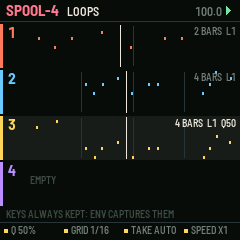
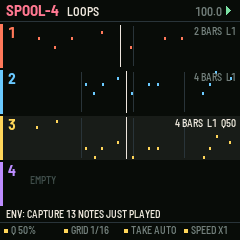
UI pass: held-button hints and clearer screens

Changed region(s): [[0.0, 0.875, 0.7292, 0.9333]]

diff --git a/app/ui.c b/app/ui.c
@@ -52,6 +52,11 @@ static const char *const CARD_TEXT[NB] = {
 #endif
 };
 
+static const char *const HINTS[NB] = {
+    [B_SEL] = "SEQ REDO  EDIT CLEAR  LFO HALVE  TAP: SOUND", [B_FX] = "ERASING AS IT PASSES",
+    [B_ARP] = "HOLD A KEY: IT REPEATS (K2 GRID)",
+};
+
 static void dirty(void) { U.dirty = 1; }
 static loop_t *lp_sel(void) { return &P.loop[L.sel % NLOOP]; }
 static void settings_save(void) { plat_store_save(OBJ_SETTINGS, &set, sizeof set); }
@@ -406,7 +411,14 @@ static void draw(void)
             cv_rect(90, 70, 60, 50, K_PANEL);
             text_c(120, 80, &FONT_L, t, K_REC);
         }
-        cv_text(6, 186, &FONT_T, L.erase ? "ERASING AS IT PASSES" : "KEYS ALWAYS KEPT: ENV CAPTURES THEM", L.erase ? K_REC : K_FAINT);
+        {
+            uint32_t n = capture_ready();
+            char t[40] = "ENV: CAPTURE ";
+            i_cat(t, (int32_t)n);
+            s_cat(t, n == 1u ? " NOTE JUST PLAYED" : " NOTES JUST PLAYED");
+            cv_text(6, 186, &FONT_T, L.erase ? "ERASING AS IT PASSES" : n ? t : "KEYS ALWAYS KEPT: ENV CAPTURES THEM",
+                    L.erase ? K_REC : n ? K_FG : K_FAINT);
+        }
     }
     cv_blit(0, 22);
     if (U.page == PG_LOOPS) {
@@ -426,6 +438,7 @@ static void draw(void)
     } else {
         kit_knobs("VALUE", "", "", "", ACCENT);
     }
+    kit_hint(HINTS, ACCENT);
 }
 
 static void lights(void)

diff --git a/app/core/kit.c b/app/core/kit.c
@@ -262,6 +262,30 @@ static void kit_knobs(const char *a, const char *b, const char *c, const char *d
     cv_blit(0, 222);
 }
 
+/* while one button is held (a fifth of a second, before its card), the knob band says what it does now: the map
+ * of a held layer on the screen, so no combination has to be remembered. 1 when drawn (the app skips its knobs) */
+static int kit_hint(const char *const *hints, uint16_t accent)
+{
+    uint32_t i, now = plat_ms();
+    for (i = 0; i < NB; i++)
+        if (hints[i] && HELD(i) && now - K.bt0[i] >= 200u && K.card == NB && (K.btn & ~(1u << i)) == 0u) {
+            cv_begin(240, 18, accent);
+            cv_text(4, 2, &FONT_T, BTN_NM[i], K_BG);
+            cv_text(8 + text_w(&FONT_T, BTN_NM[i]), 2, &FONT_T, hints[i], K_BG);
+            cv_blit(0, 222);
+            return 1;
+        }
+    return 0;
+}
+static int kit_hint_due(const char *const *hints)      /* a frame should redraw for the hint to appear */
+{
+    uint32_t i, now = plat_ms();
+    for (i = 0; i < NB; i++)
+        if (hints[i] && HELD(i) && now - K.bt0[i] >= 200u && now - K.bt0[i] < 260u)
+            return 1;
+    return 0;
+}
+
 /* a value 0..max as a bar w wide (meters, levels) */
 static void bar(int32_t x, int32_t y, int32_t w, int32_t h, int32_t v, int32_t max, uint16_t c)
 {

diff --git a/app/seq.c b/app/seq.c
@@ -391,6 +391,19 @@ static int loop_halve(void)                             /* the first half kept *
     return 1;
 }
 
+static uint32_t capture_ready(void)                    /* the notes CAPTURE would take now (the screen) */
+{
+    uint32_t now = (uint32_t)((float)T.now / samples_per_tick()), first = now, i, n = 0;
+    for (i = 0; i < 128u && i < L.cap_w; i++) {
+        uint32_t k = (L.cap_w - 1u - i) % 128u;
+        if (now - L.cap[k].t > 8u * BAR || first - L.cap[k].t > (i ? BAR : 2u * BAR))
+            break;
+        first = L.cap[k].t;
+        n++;
+    }
+    return n;
+}
+
 /* CAPTURE: the last bars played on the keys into the loop as a new layer (empty: as many bars as the playing took,
  * 1, 2, 4 or 8) */
 static int capture(void)

diff --git a/app/app.c b/app/app.c
@@ -72,11 +72,13 @@ void app_frame(void)
         K.msg_until = 0;
         K.redraw = 1;
     }
-    if (T.playing && now - last >= 40u)
+    if ((T.playing || now - last >= 500u) && now - last >= 40u)
         K.redraw = 1;
     for (i = 0; i < 16u; i++)
         if (heard[i])
             heard[i]--;
+    if (kit_hint_due(HINTS))
+        K.redraw = 1;
     lights();
     if (K.redraw) {
         K.redraw = 0;
